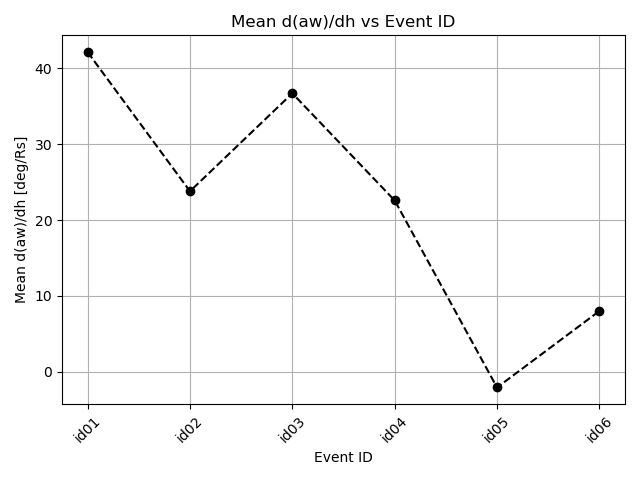
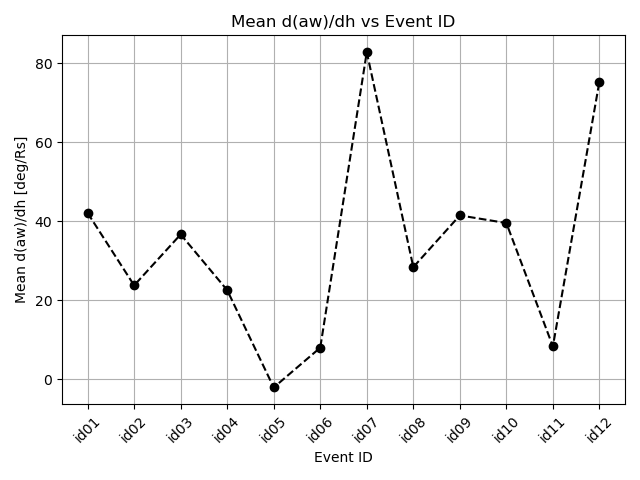
done up to event 13, which sucks

diff --git a/select_points_img_points_run.py b/select_points_img_points_run.py
@@ -8,13 +8,13 @@ import numpy as np
 repo_path = os.getcwd() 
 data_path = '/gehme/data/solo/fsi'
 master_list = repo_path + '/FSI_CMEbubbles_Onlytraceable.csv'
-id_of_events_to_process = [6]
+id_of_events_to_process = [13]
 odir = repo_path + '/output'
 overwrite = True # if True, the output file will be overwritten if it already exists
 color_scl = 2 # number of sigmas to control image color scale range
-roi = None # Region of interest in arcsec [top_right_x, top_right_y, bottom_left_x, bottom_left_y]
+roi = [4500,4500,-4500,-4500] #None or Region of interest in arcsec [top_right_x, top_right_y, bottom_left_x, bottom_left_y]
 exp_scl = 0.2 # Exponential scaling factor for the image
-files_names_to_avoid = ['fsi304'] # any filename containing any of these strings will be avoided
+files_names_to_avoid = ['fsi304','v02'] # any filename containing any of these strings will be avoided
 min_time_delta = 60.*9. # minimum time delta between consecutive images in seconds.
 #######
 
